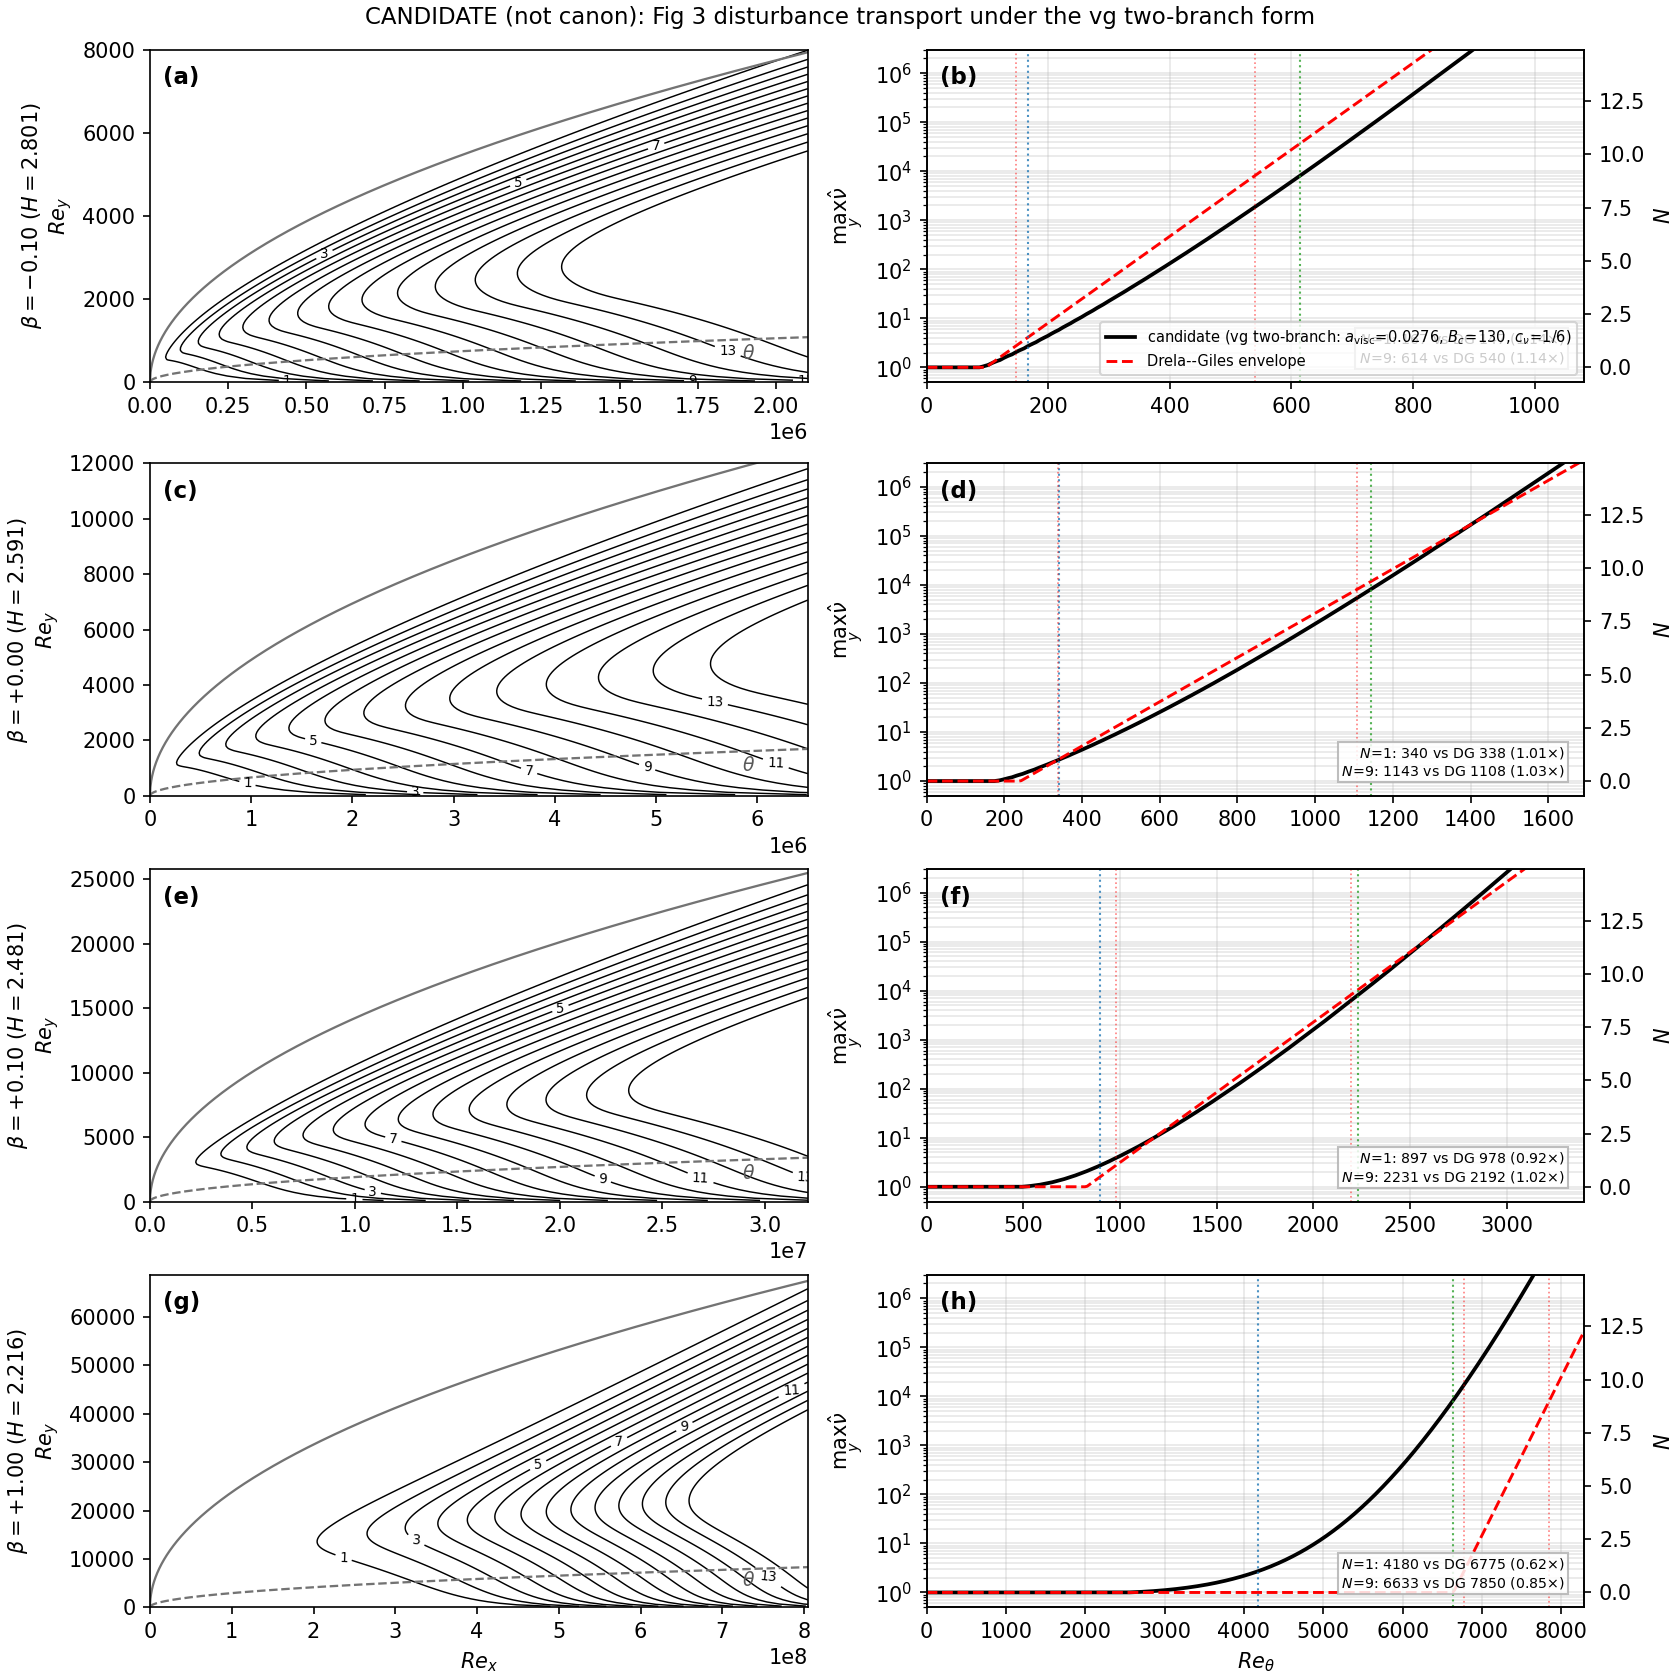
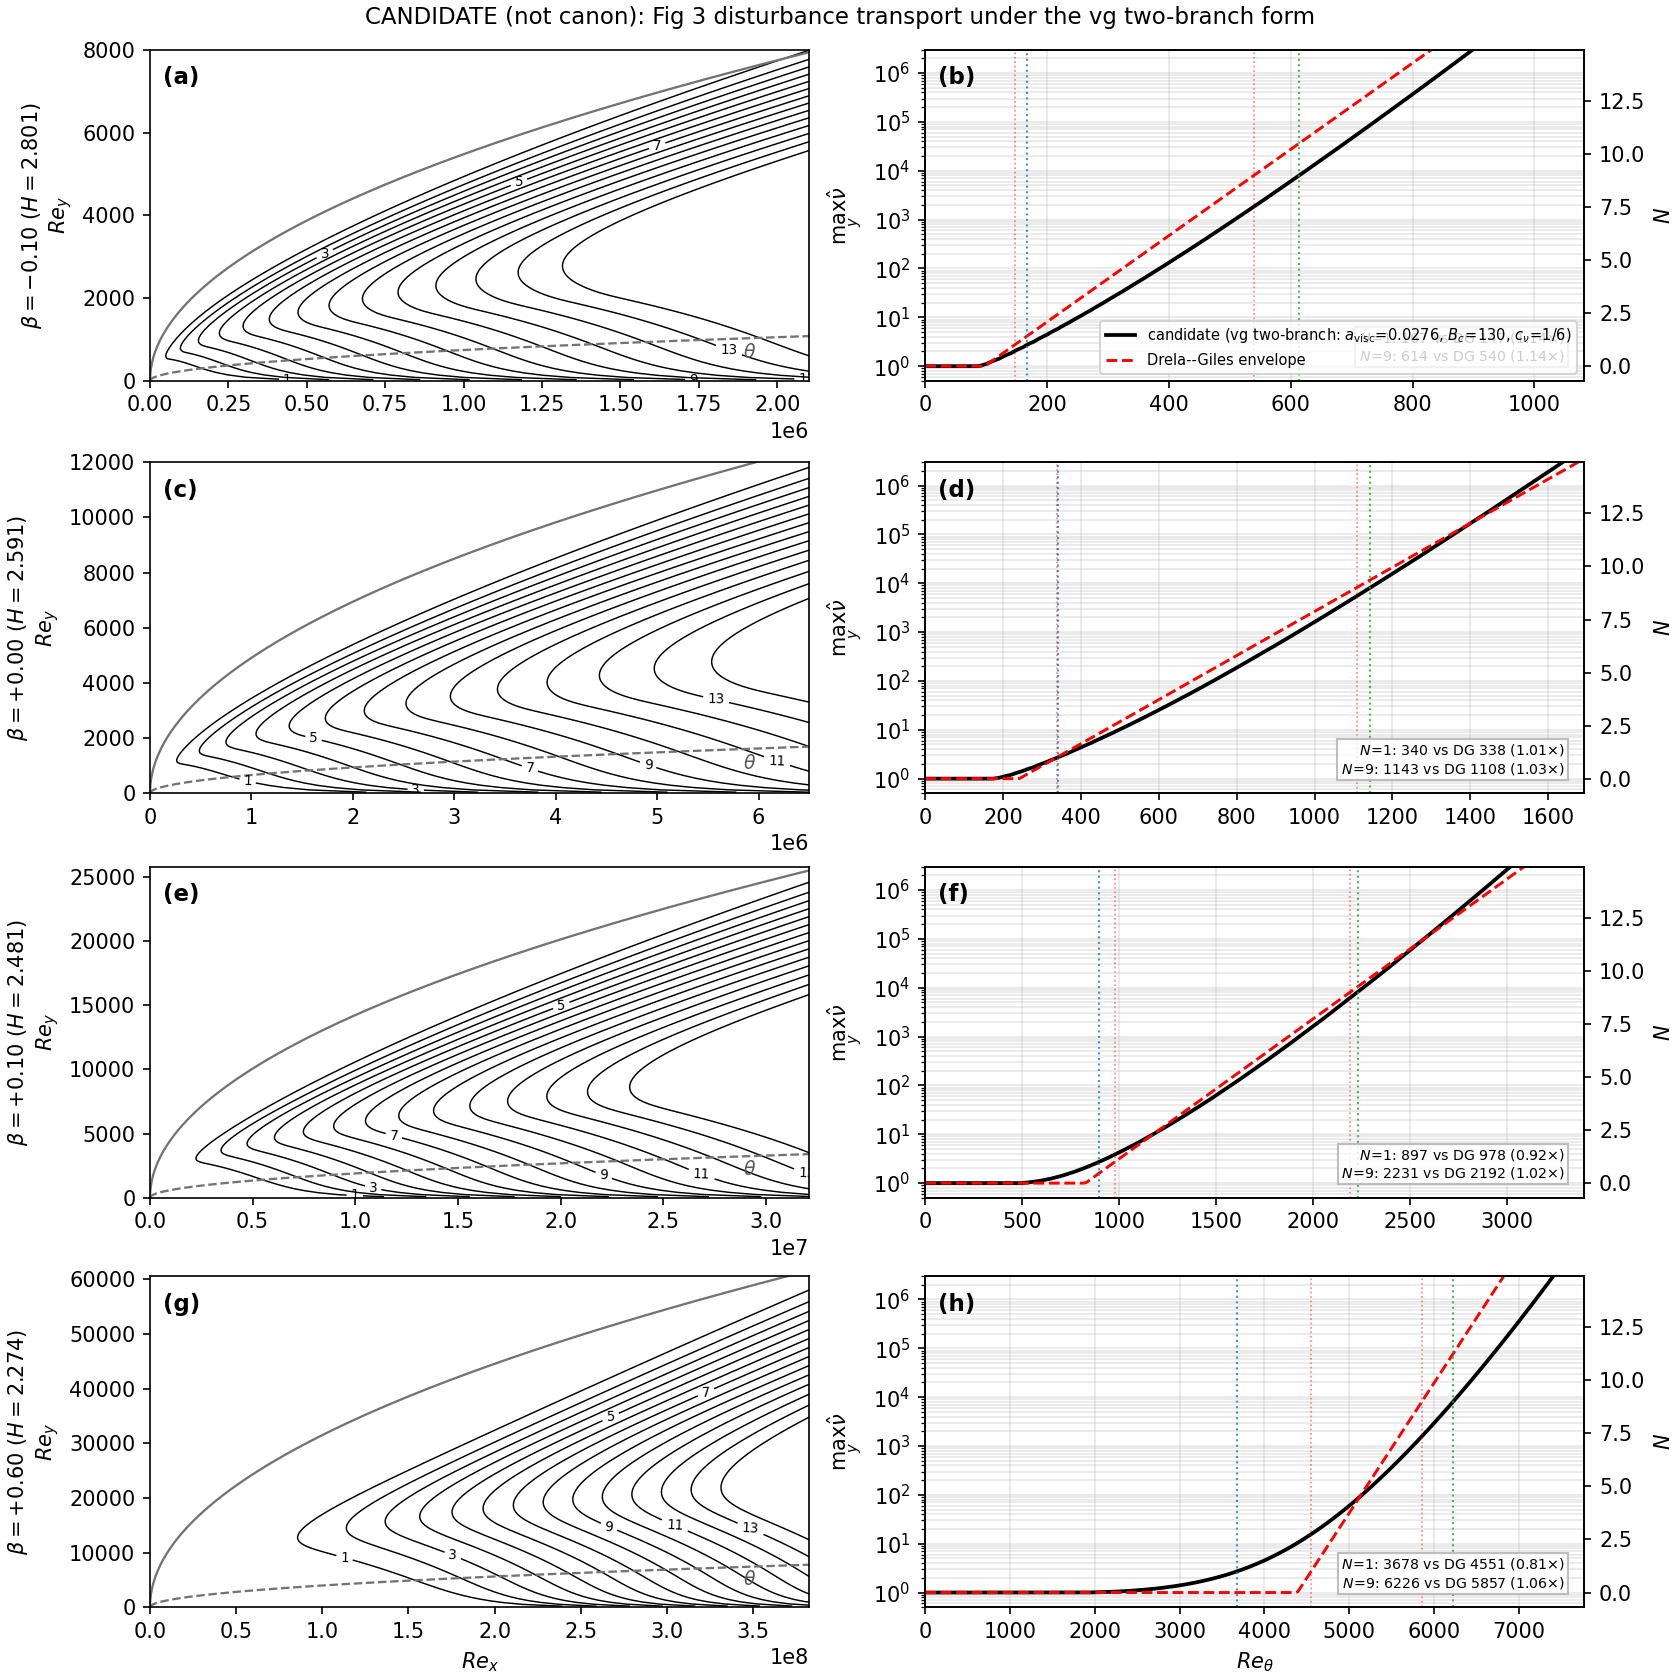
whitepaper: transport payoff row beta=+1 -> +0.6 (practical FPG)
- fig03 candidate ROWS: strong-FPG row now beta=0.6 (H=2.274), N=1
  0.81x / N=9 1.06x DG.
- max(Omega_hat I_hat) is resolution-CONVERGED, not noise: caption's
  "~2e-4" was an under-resolved value; the genuine converged peak is
  6.5e-4 (beta=0.6) / 8.8e-4 (beta=1). A small positive near-wall
  inflectional coordinate survives in FPG (Omega_hat->1 at the wall);
  not exactly zero.

diff --git a/paper/whitepaper.tex b/paper/whitepaper.tex
@@ -1021,8 +1021,8 @@ Drela $Re_{\theta0}$: $6640/3680/1794/664/244$.}
 \includegraphics[width=0.99\textwidth]{newkernel_transport.png}
 \caption{Rows $(\beta,H,\max\hat\Omega\hat I)$:
 $(-0.10,\,2.80,\,0.162)$, $(0,\,2.59,\,0.078)$, $(+0.10,\,2.48,\,0.037)$,
-$(+1.0,\,2.22,\,{\sim}2\!\times\!10^{-4})$.
-$N\!=\!1/N\!=\!9$ vs DG: $1.14/1.14$; $1.01/1.03$; $0.92/1.02$; $0.62/0.85$.}
+$(+0.60,\,2.27,\,6.5\!\times\!10^{-4})$.
+$N\!=\!1/N\!=\!9$ vs DG: $1.14/1.14$; $1.01/1.03$; $0.92/1.02$; $0.81/1.06$.}
 \end{figure}
 
 \begin{figure}[H]\centering

diff --git a/paper/repro/analytic/fig03_fs_transport_rows_candidate.py b/paper/repro/analytic/fig03_fs_transport_rows_candidate.py
@@ -81,9 +81,9 @@ def size_domain(fs, x0, beta):
 
 
 def main():
-    # (beta, x0 domain guess, ylimL); beta=+1 is the new strong-FPG payoff row
+    # (beta, x0 domain guess, ylimL); beta=+0.6 is the practical strong-FPG row
     ROWS = [(-0.10, 1.2e6, 8000), (0.0, 4.0e6, 12000),
-            (0.10, 3e6, None), (1.0, 3e5, None)]
+            (0.10, 3e6, None), (0.6, 6e5, None)]
     fig, axs = plt.subplots(len(ROWS), 2, figsize=(11.2, 2.8*len(ROWS)),
                             layout='constrained')
     rows_out = []
